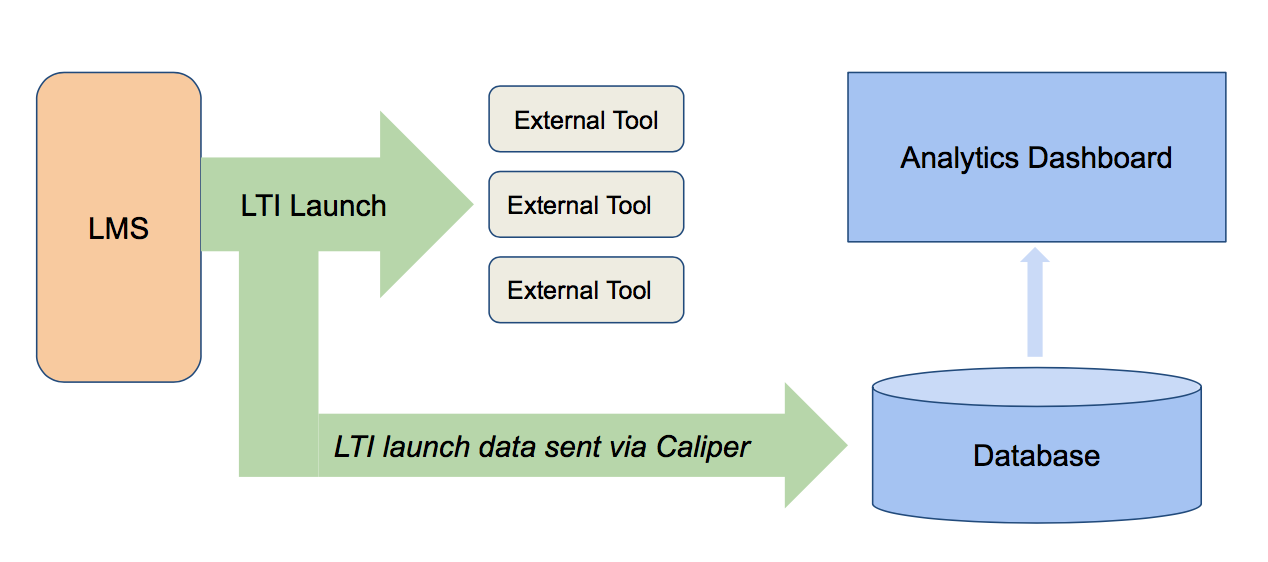
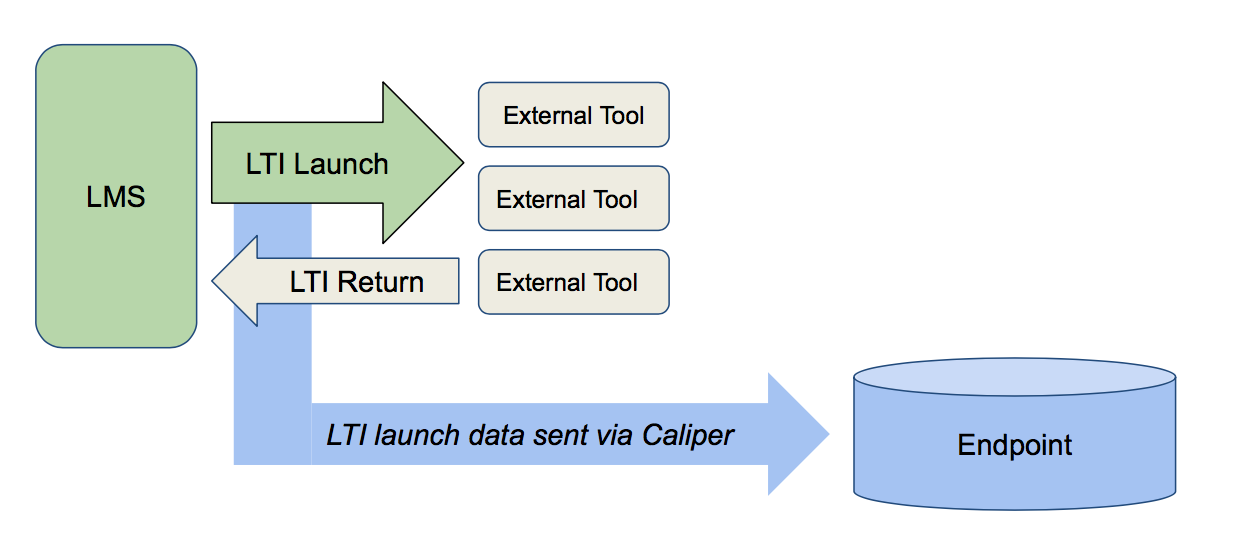
add Returned action and JSON-LD section.
Q's re LtiSession and messageParameters when in Returned mode are not
yet addressed.

diff --git a/profiles/toollaunch/caliper-profile-toollaunch-v1p1.html b/profiles/toollaunch/caliper-profile-toollaunch-v1p1.html
@@ -79,7 +79,10 @@
         <img src="assets/tl-conceptual.png" alt="Deployment pattern"/>
         <figcaption>Graph of the intended deployment pattern for the Tool Launch
         Profile. A Caliper sensor is deployed in the LMS and intercepts tool launch
-        events, and emits these to a Caliper endpoint. </figcaption>
+        events, and emits these to a Caliper endpoint. In the cases where the tool
+        performs an explicit action to return to the platform, those are captured
+        too. 
+        </figcaption>
       </figure>
 
     </section>
@@ -128,7 +131,7 @@
           <dt>JSON-LD Context</dt>
           <dd>The JSON-LD Context for this profile defines all relevant 
             term-IRI mappings [[!CALIPER-TOOLLAUNCH-11-CONTEXT]]. The context IRI
-            <code>https://purl.imsglobal.org/spec/caliper-toollaunch/v1p1/context/</code>
+            <code>http://purl.imsglobal.org/ctx/caliper/v1p1/ToolLaunchProfile-extension</code>
             MUST be used in JSON-LD payloads representing this Caliper profile.             
           </dd>          
           <dt>Errata</dt>
@@ -168,8 +171,13 @@
         src="assets/tl-model.png" alt="Overview of Tool Launch Profile"/>
                 
         <p>The Tool Launch Profile models a Person launching a SoftwareApplication 
-          at a given time and in a given context.</p>
-        
+          at a given time and in a given context. It also provides the ability to 
+          model a "return response", which in the context of LTI [[LTI-13]] 
+          typically consists of a <a href="https://www.imsglobal.org/spec/lti/v1p3/#lis-message-variables">
+          redirect URL</a> or a specific resonse message, as defined in LTI Deep
+          Linking [[LTI-DL]].
+        </p>
+                
         <dl>
           <dt>IRI</dt>
           <dd>https://purl.imsglobal.org/caliper/ToolLaunchEvent</dd>
@@ -181,7 +189,8 @@
           <dd><a href="https://www.imsglobal.org/sites/default/files/caliper/v1p1/caliper-spec-v1p1/caliper-spec-v1p1.html#person"
             >Person</a></dd>
           <dt>Supported Actions</dt>
-          <dd><a href="action-launched">Launched</a></dd>
+          <dd><a href="#action-launched">Launched</a></dd>
+          <dd><a href="#action-returned">Returned</a></dd>
           <dt>Supported Objects</dt>
           <dd><a href="https://www.imsglobal.org/sites/default/files/caliper/v1p1/caliper-spec-v1p1/caliper-spec-v1p1.html#softwareApplication"
             >SoftwareApplication</a></dd>
@@ -200,6 +209,18 @@
             </tr>
           </thead>
             <tbody>  
+              <tr>
+                <td>id</td>
+                <td><a href="https://www.imsglobal.org/sites/default/files/caliper/v1p1/caliper-spec-v1p1/caliper-spec-v1p1.html#uuidDef">UUID</a></td>                
+                <td>The emitting application <em class="rfc2119" title="MUST">MUST</em> 
+                  provision the <code>ToolLaunchEvent</code> with a UUID. A version 4 
+                  UUID <em class="rfc2119" title="SHOULD">SHOULD</em> be generated.  
+                  The UUID <em class="rfc2119" title="MUST">MUST</em> be expressed 
+                  as a <a href="https://www.imsglobal.org/sites/default/files/caliper/v1p1/caliper-spec-v1p1/caliper-spec-v1p1.html#urnDef">
+                    URN</a> using the form 'urn:uuid:&lt;UUID&gt;' per
+                <a href="https://tools.ietf.org/html/rfc4122">RFC 4222</a>.</td>
+                <td>Required</td>
+              </tr>
               <tr>
               <td>type</td>
               <td><a href=
@@ -222,13 +243,13 @@
                 <td>Required</td>
               </tr>
               <tr>
-              <td>action</td>
+              <td id="action">action</td>
               <td><a href=
                  "https://www.imsglobal.org/sites/default/files/caliper/v1p1/caliper-spec-v1p1/caliper-spec-v1p1.html#termDef"
               >Term</a></td>
               <td>The action or predicate that binds the <code>actor</code> or 
                 subject to the <code>object</code>. The value range MUST be limited 
-                to the 'Launched' action only.</td>
+                to one of the 'Launched' or 'Returned' actions only.</td>
               <td>Required</td>
             </tr>
             <tr>
@@ -264,7 +285,12 @@
                 tool launch context. The <code>federatedSession</code> 
                 value MUST be expressed either as an object or as a string 
                 corresponding to the federatedSession’s IRI.</td>
-              <td>Required</td>
+              <td>Required when the <a href="#action">action</a> is 'Launched', 
+                otherwise optional. Workflows that have a specific "return message" 
+                component (i.e LTI Deep Linking response messages) SHOULD provide 
+                the <code>federatedSession</code> property and SHOULD populate 
+                it's messageParameters field with the message parameters in the 
+                response message.</td>
             </tr>
             </tbody>
         </table>
@@ -272,16 +298,9 @@
     </section>    
   </section> <!-- /events -->
 
-  
-    
-    
-    
-    
-  
-
   <section>
     <h2>Actions</h2>
-    <p>The Caliper <a href="#toolLaunchEvent">ToolLaunchEvent</a> supports a single "Launched" action.</p>
+    <p>The Caliper <a href="#toolLaunchEvent">ToolLaunchEvent</a> supports the "Launched" and "Returned" actions.</p>
     <table class="data">
       <thead>
         <tr>
@@ -296,8 +315,38 @@
           <td><a href="http://purl.imsglobal.org/caliper/actions/Launched" rel="nofollow">http://purl.imsglobal.org/caliper/actions/Launched</a></td>
           <td><a href="http://wordnet-rdf.princeton.edu/wn31/01515196-v" rel="nofollow">Get going; give impetus to</a>.</td>
           </tr>
+          <tr>
+          <td id="action-Returned">Returned</td>
+          <td><a href="http://purl.imsglobal.org/caliper/actions/Returned" rel="nofollow">http://purl.imsglobal.org/caliper/actions/Returned</a></td>
+          <td><a href="http://wordnet-rdf.princeton.edu/wn31/01515196-v" rel="nofollow">Go or come back to place, condition, or activity where one has been before</a>.</td>
+          </tr>
       </tbody>
     </table>
+  </section>
+
+  <section id="jsonld">
+    <h2 id="json-ld">JSON-LD</h2>
+    <p>Individual Caliper events and entity describes are serialized as JSON-LD. 
+      IMS Global provides a remote ToolLaunch Profile JSON-LD 
+      <a href="http://purl.imsglobal.org/ctx/caliper/v1p1/ToolLaunchProfile-extension">context</a> 
+      for mapping <code>ToolLaunchEvent</code> terms to IRIs. Caliper message producers 
+      <em class="rfc2119" title="MUST">MUST</em> reference this context in every 
+      Caliper 1.1 <code>SearchEvent</code> and/or <code>Query</code> describe 
+      created and serialized for transmission to a target endpoint.</p>
+
+    <p>See the Caliper 1.1 specification [[!CALIPER-11]] for detailed requirements 
+      regarding of JSON-LD and JSON-LD context handling.</p>
+
+    <section class="informative" id="jsonld-context">
+      <h3>Example</h3>
+      <figure class="example">
+            <pre><code>{
+  "@context": "http://purl.imsglobal.org/ctx/caliper/v1p1/ToolLaunchProfile-extension",
+  …
+}</code></pre>
+        <figcaption>JSON-LD Context example</figcaption>
+      </figure>
+    </section>
   </section>
 
   <section class="appendix informative">
@@ -375,7 +424,66 @@
   }
 }        
       </code></pre>  
-      <figcaption>Example of Tool Launch Event</figcaption>          
+      <figcaption>Example of Tool Launch Event (Launched)</figcaption>          
+    </figure>
+    
+    <figure class="example">
+      <pre><code>
+{
+  "@context": "http://purl.imsglobal.org/ctx/caliper/v1p1/ToolLaunchProfile-extension",
+  "id": "urn:uuid:a2e8b214-4d4a-4456-bb4c-099945749117",
+  "type": "ToolLaunchEvent",
+  "actor": {
+    "id": "https://example.edu/users/554433",
+    "type": "Person"
+  },
+  "action": "Returned",
+  "object": {   
+    "id": "https://example.com/lti/tool",
+    "type": "SoftwareApplication"
+  },
+  "eventTime": "2018-11-15T10:15:00.000Z",
+  "edApp": {   
+    "id": "https://example.edu",
+    "type": "SoftwareApplication"    
+  },
+  "referrer": {   
+    "id": "https://example.edu/terms/201801/courses/7/sections/1/pages/1",
+    "type": "WebPage"
+  },
+  "group": {   
+    "id": "https://example.edu/terms/201801/courses/7/sections/1",
+    "type": "CourseSection",
+    "courseNumber": "CPS 435-01",
+    "academicSession": "Fall 2018"
+  },
+  "membership": {   
+    "id": "https://example.edu/terms/201801/courses/7/sections/1/rosters/1",
+    "type": "Membership",
+    "member": "https://example.edu/users/554433",
+    "organization": "https://example.edu/terms/201801/courses/7/sections/1",
+    "roles": [ "Learner" ],
+    "status": "Active",
+    "dateCreated": "2018-08-01T06:00:00.000Z"
+  },
+  "session": {   
+    "id": "https://example.edu/sessions/1f6442a482de72ea6ad134943812bff564a76259",
+    "type": "Session",
+    "startedAtTime": "2018-11-15T10:00:00.000Z"
+  },
+  "federatedSession": {   
+    "id": "https://example.edu/lti/sessions/b533eb02823f31024e6b7f53436c42fb99b31241",
+    "type": "LtiSession",
+    "user": {
+      "id": "https://example.edu/users/554433",
+      "type": "Person"
+    },
+    "dateCreated": "2018-11-15T10:15:00.000Z",
+    "startedAtTime": "2018-11-15T10:15:00.000Z"
+  }
+}
+      </code></pre>  
+      <figcaption>Example of Tool Launch Event (Returned)</figcaption>          
     </figure>  
   </section>
   <!-- /examples -->

diff --git a/profiles/toollaunch/local-biblio.js b/profiles/toollaunch/local-biblio.js
@@ -46,6 +46,12 @@ var _localBiblio = {
   "CALIPER-TOOLLAUNCH-11-ERRATA": {
     title: "Caliper Analytics® Tool Launch Profile 1.1 Errata",
     href: "https://www.imsglobal.org/spec/caliper-tl/v1p1/errata/",
-    publisher: "IMS Global Learning Consortium",
+    publisher: "IMS Global Learning Consortium"
+  }
+  ,        
+  "LTI-DL": {
+    title: "LTI Deep Linking @@@ FIXME",
+    href: "https://www.imsglobal.org/spec/lti-dl/v1p1/",
+    publisher: "IMS Global Learning Consortium"
   }  
 };
